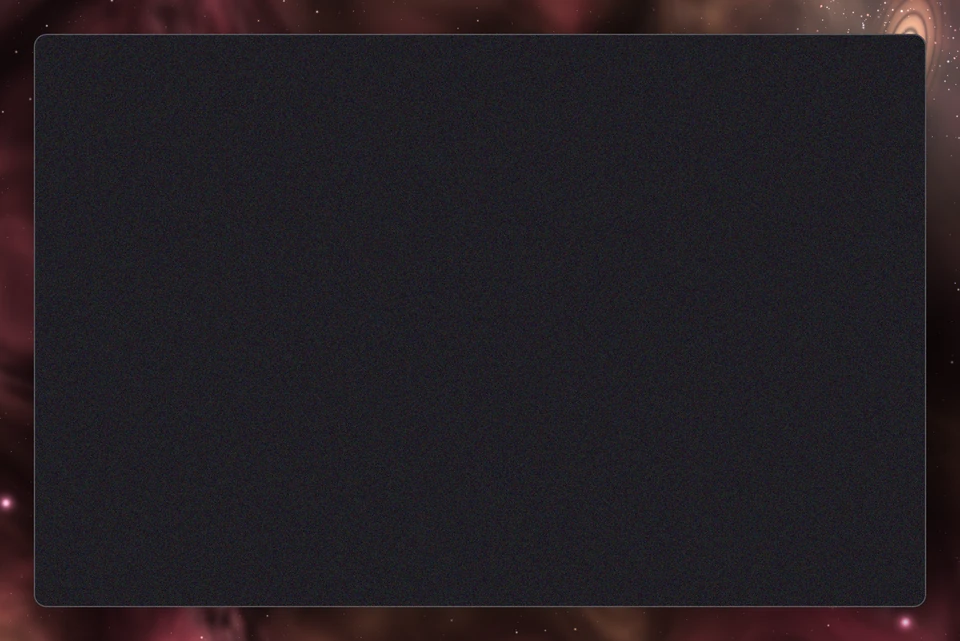
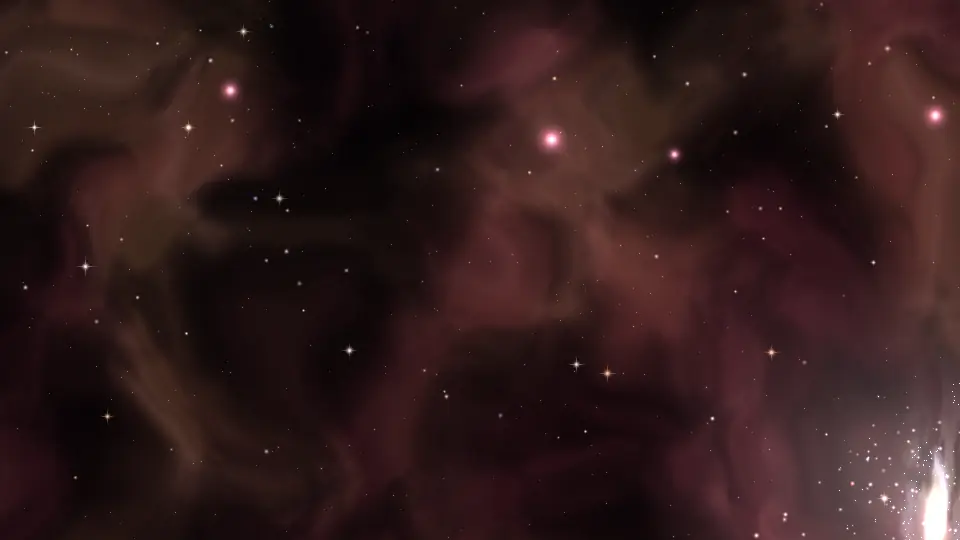
fix: show pure space skies on the palette rail
Regenerate rail thumbnails with full-bleed space::render instead of
polished empty plates that left a gray window in the center.

diff --git a/src/styles/product.css b/src/styles/product.css
@@ -201,8 +201,8 @@
   display: block;
   width: 100%;
   height: auto;
-  aspect-ratio: auto;
-  object-fit: contain;
+  aspect-ratio: 16 / 9;
+  object-fit: cover;
   border-radius: 6px;
   border: 1px solid var(--hairline-strong);
   background: #0a0c10;
